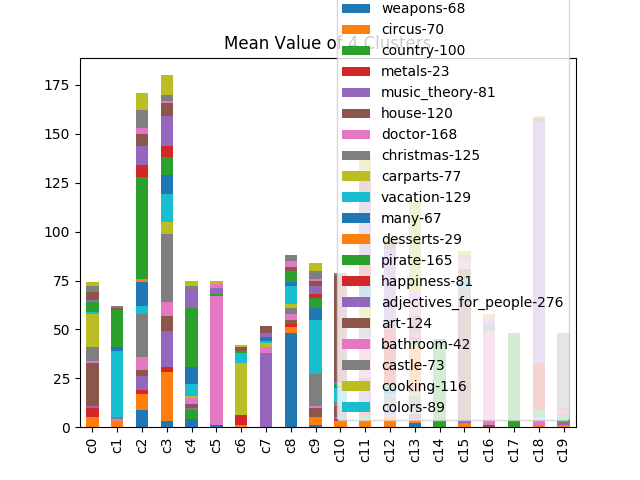
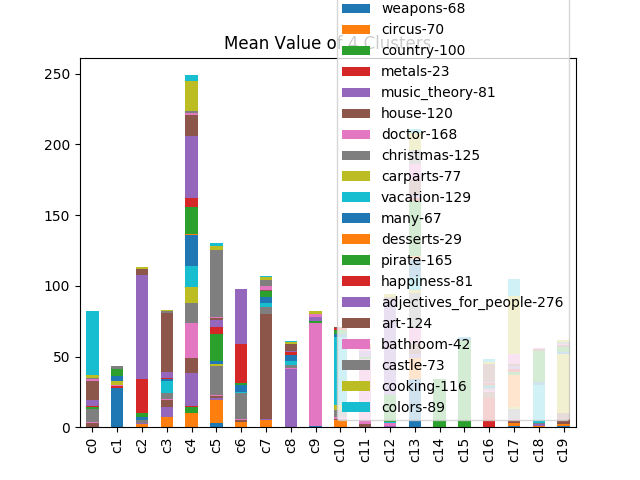
cluster commit2

diff --git a/cluster/cluster2.py b/cluster/cluster2.py
@@ -1,0 +1,71 @@
+import pickle
+import os
+import numpy as np
+import pandas as pd
+
+from collections import defaultdict
+from gensim.models.keyedvectors import KeyedVectors
+from sklearn.cluster import KMeans
+
+
+pickle_dir = os.listdir(path = '/home/oza/pre-experiment/glove/300d_dic')
+
+
+def pickle_load(path):
+    with open(path, mode='rb') as f:
+        data = pickle.load(f)
+        return data
+
+arr = np.empty((0, 300), dtype = 'float32')
+
+n_clusters = 20
+i = 0
+check_list = []
+column_category_list = []
+category_list = []
+counter = 1
+
+for file_name in pickle_dir:
+    dic = pickle_load('/home/oza/pre-experiment/glove/300d_dic/' + file_name) 
+    file_name = file_name.replace('.pickle', '') #.picke削除
+    column_category_list.append(file_name)
+    i += 1
+    for mykey in dic.keys():
+        if mykey not in check_list: #複数カテゴリにまたがる単語を重複させない, 1つにする
+            check_list.append(mykey)
+            arr = np.append(arr, dic[mykey])
+            arr = arr.reshape(-1, 300)
+            category_list.append(file_name)
+    if i == n_clusters:
+        print(arr.shape)
+        print(str(i) + "ファイル")
+        kmeans_model = KMeans(n_clusters=n_clusters, verbose=1, random_state=42, n_jobs=-1)
+        kmeans_model.fit(arr)
+        cluster_labels = kmeans_model.labels_
+        data = np.zeros((arr.shape[0], n_clusters))
+        df = pd.DataFrame(data, columns = column_category_list)
+        df['cluster_id'] = cluster_labels
+        df['category'] = category_list
+
+        for i in range(len(df.index)):
+            idx = df.iloc[i]['category'] #特定の行を参照
+            df.at[i, idx] = 1 #特定の行に代入
+
+        clusterinfo = pd.DataFrame()
+        for i in range(n_clusters):
+            clusterinfo['c' + str(i)] = df[df['cluster_id'] == i].sum()
+        clusterinfo = clusterinfo.drop(['cluster_id', 'category'])
+        print(clusterinfo)
+
+        my_plot = clusterinfo.T.plot(kind='bar', stacked=True, title="Mean Value of 4 Clusters") #, figsize=(5, 10))
+        my_plot.figure.savefig('cluster_test' + str(counter) + '.png') 
+        my_plot.set_xticklabels(my_plot.xaxis.get_majorticklabels(), rotation=0)
+
+        my_plot.legend(bbox_to_anchor=(0, -0.1), loc='upper left', borderaxespad=0)
+        my_plot.figure.savefig('cluster_test' + str(counter + 1) + '.png')
+        check_list = []
+        column_category_list = []
+        category_list = []
+        arr = np.empty((0, 300), dtype = 'float32')
+        counter += 2
+        i = 0

diff --git a/cluster/cluster1.py b/cluster/cluster1.py
@@ -24,8 +24,7 @@ check_list = []
 column_category_list = []
 category_list = []
 for file_name in pickle_dir:
-    dic = pickle_load('/home/oza/pre-experiment/glove/300d_dic/' + file_name)
-    #file_name = file_name.strip(".pickle")  #.picke削除
+    dic = pickle_load('/home/oza/pre-experiment/glove/300d_dic/' + file_name) 
     file_name = file_name.replace('.pickle', '') #.picke削除
     column_category_list.append(file_name)
     i += 1
@@ -62,6 +61,15 @@ clusterinfo = clusterinfo.drop(['cluster_id', 'category'])
 
 print(clusterinfo)
 
+'''
+#check program
+count = 0
+for i in cluster_labels:
+    if i == 9:
+        print(i)
+        count += 1
+print(count)
+'''
 
 my_plot = clusterinfo.T.plot(kind='bar', stacked=True, title="Mean Value of 4 Clusters") #, figsize=(5, 10))
 my_plot.figure.savefig('cluster_test1.png') 
